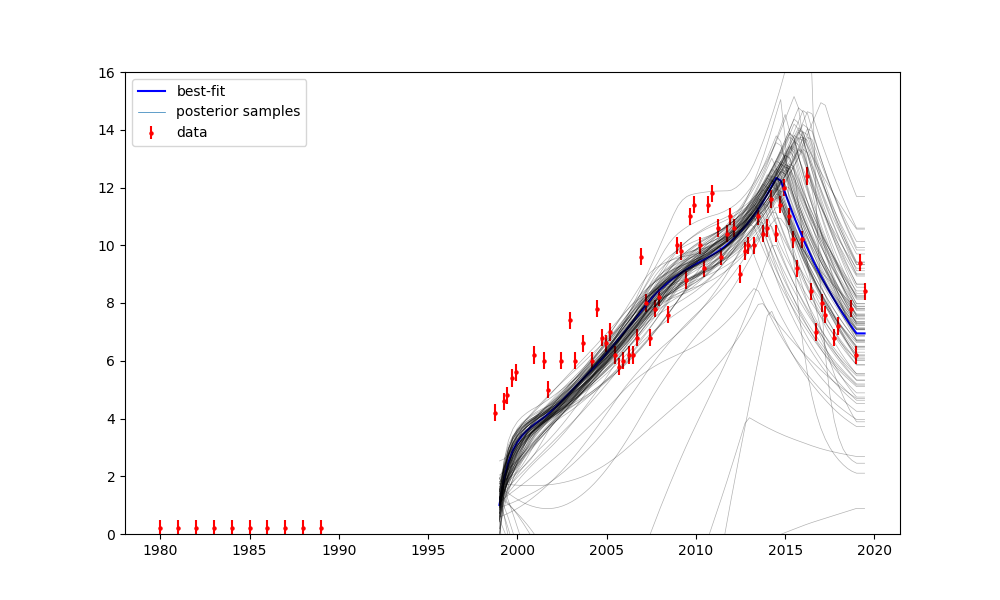
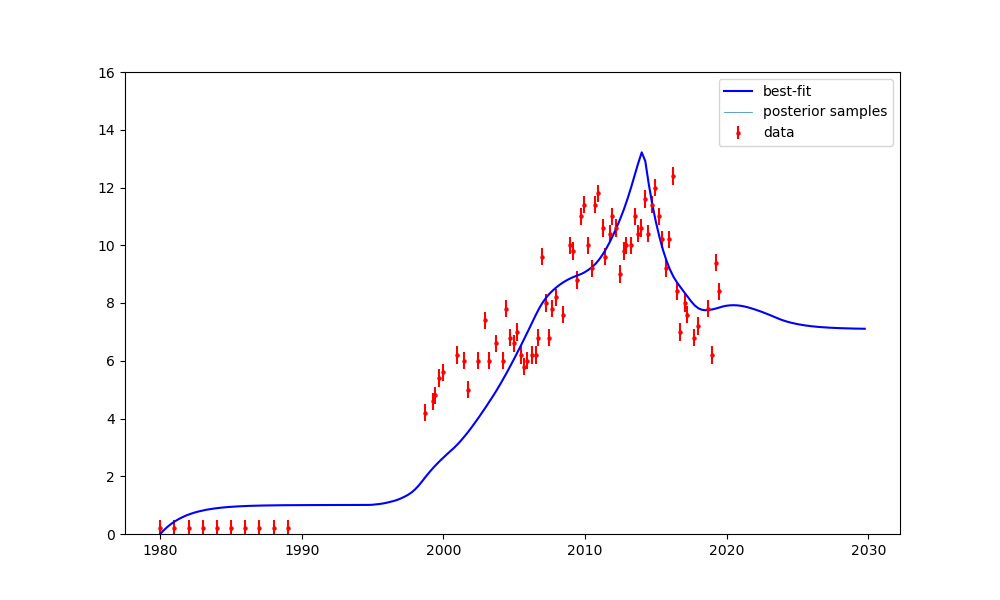
fixed functions mostly

diff --git a/model_functions_posterior.py b/model_functions_posterior.py
@@ -35,7 +35,7 @@ def improved_euler_step(f, tk, xk, h, pars = []):
     return xk + (h/2)*(f(xk,tk,*pars) + f(xk1_prediction, tk+h, *pars))
 
 # Pressure ODE
-def dPdt(P, t, b):
+def dPdt(P, t):
     '''
     Parameters:
     -----------
@@ -63,10 +63,10 @@ def dPdt(P, t, b):
 
 
         
-    return -b*(P + dP_a/2) -b*(P-(dP_a1)/2) 
+    return -1*(P + dP_a/2) -1*(P-(dP_a1)/2) 
 
 # Concentration ODE
-def dCdt(ci, t, P,b1,alpha, bc, tau):
+def dCdt(ci, t, P, b1, alpha, bc, tau):
     '''
     Parameters
     ----------
@@ -124,7 +124,7 @@ def dCdt(ci, t, P,b1,alpha, bc, tau):
     return  -ni*b1*(P-dP_surf)+bc*ci*(P-(dP_a/2))
 
 
-def solve_dPdt(f, t, b):
+def solve_dPdt(f, t):
     '''
     Parameters:
     -----------
@@ -148,7 +148,7 @@ def solve_dPdt(f, t, b):
 
     # Solve using Improved Euler Method
     for i in range(len(t)-1):
-        P[i+1] = improved_euler_step(f,t[i],P[i],dt,b)
+        P[i+1] = improved_euler_step(f,t[i],P[i],dt)
         
     return P
 
@@ -182,7 +182,7 @@ def solve_dCdt(f,t,P, b1,alpha, bc, tau):
     #C[0] = 4.2
     dt = t[1]-t[0]
 
-    tn, n = np.genfromtxt('nl_cows.txt', delimiter=',', skip_header=1).T
+    #tn, n = np.genfromtxt('nl_cows.txt', delimiter=',', skip_header=1).T
 
     # Solve using improved euler method
     for i in range(len(t)-1):
@@ -197,7 +197,7 @@ def solve_dCdt(f,t,P, b1,alpha, bc, tau):
 LPM_Model is a single function that solves the LPM for nitrate concentration in the aquifer
 '''
 
-def LPM_Model(t, b,b1,alpha, bc,tau):
+def LPM_Model(t, b1, alpha, bc, tau):
     '''
     Parameters
     ----------
@@ -230,7 +230,7 @@ def LPM_Model(t, b,b1,alpha, bc,tau):
     tv = np.arange(1980,2030,step = 0.25) # New Time period
       
     # Solve pressure ODE
-    P = solve_dPdt(dPdt,tv,[b])
+    P = solve_dPdt(dPdt,tv)
 
     # Solve concentration ODE 
     C = solve_dCdt(dCdt,tv,P,b1,alpha,bc,tau)
@@ -239,7 +239,7 @@ def LPM_Model(t, b,b1,alpha, bc,tau):
     C_interp = np.interp(t,tv,C)
     return C_interp
 
-def posterior_pars(sigma):
+def posterior_pars():
     '''
     Parameter
     ---------
@@ -262,11 +262,12 @@ def posterior_pars(sigma):
     #sigma = [0.1]*len(c0) # variance limit of pars
 
 
-    sigma = [0.1]*len(c0) # variance limit of pars
+    #sigma = [0.1]*len(c0) # variance limit of pars
 
     # calibrating model to data and creating covariance matrix
-    p, cov = curve_fit(LPM_Model,t0,c0,bounds=((0,0,0,0,0),(np.inf,np.inf,1,np.inf,5))) 
+    p, cov = curve_fit(LPM_Model,t0,c0,bounds=((0,0,0,0),(np.inf,1,np.inf,4.6))) 
 
-    pos = np.random.multivariate_normal(p, cov, 100) # random variates of the calibrated pars
+    #pos = np.random.multivariate_normal(p, cov, 100) # random variates of the calibrated pars
+    pos=0
     
     return pos, p

diff --git a/model_posterior.py b/model_posterior.py
@@ -7,7 +7,7 @@ from model_functions_posterior import *
 from sklearn.linear_model import BayesianRidge
 
 t0, c0 = np.genfromtxt('nl_n.csv', delimiter=',', skip_header=1).T
-t = np.arange(1980,2030,step = 0.25)
+t = np.arange(1980,2030,step = 0.1)
 ps, p = posterior_pars()
 print(p)
 
@@ -23,22 +23,22 @@ T0 = np.vander(t, n_order+1, increasing=True)
 c, c_var = br.predict(T0, return_std=True)
 '''
 sigma = [1.e-14]*len(c0) # variance limit of pars
-ps, p = posterior_pars(sigma)
+ps, p = posterior_pars()
 v=0.3
 fig = plt.figure(figsize=(10,6))
 ax = fig.add_subplot(111)
 ax.errorbar(t0,c0,yerr=v,fmt='ro', label='data', markersize=2.2)
 ax.plot(t, LPM_Model(t, *p), 'b-', label='best-fit')
 
-for pi in ps:
-    ax.plot(t, LPM_Model(t, *pi), 'k-', alpha=0.3, lw=0.5)
+# for pi in ps:
+#     ax.plot(t, LPM_Model(t, *pi), 'k-', alpha=0.3, lw=0.5)
 
 #ax.fill_between(t, c-2*c_var, c+2*c_var, color='r', alpha=0.3, label='2$\sigma$ envelope')
 ax.plot([], [], lw=0.5, label='posterior samples')
 ax.set_ylim(0,16)
 ax.legend()
-plt.show()
-#plt.savefig("posterior.png")
+#plt.show()
+plt.savefig("posterior.png")
 
 
 
